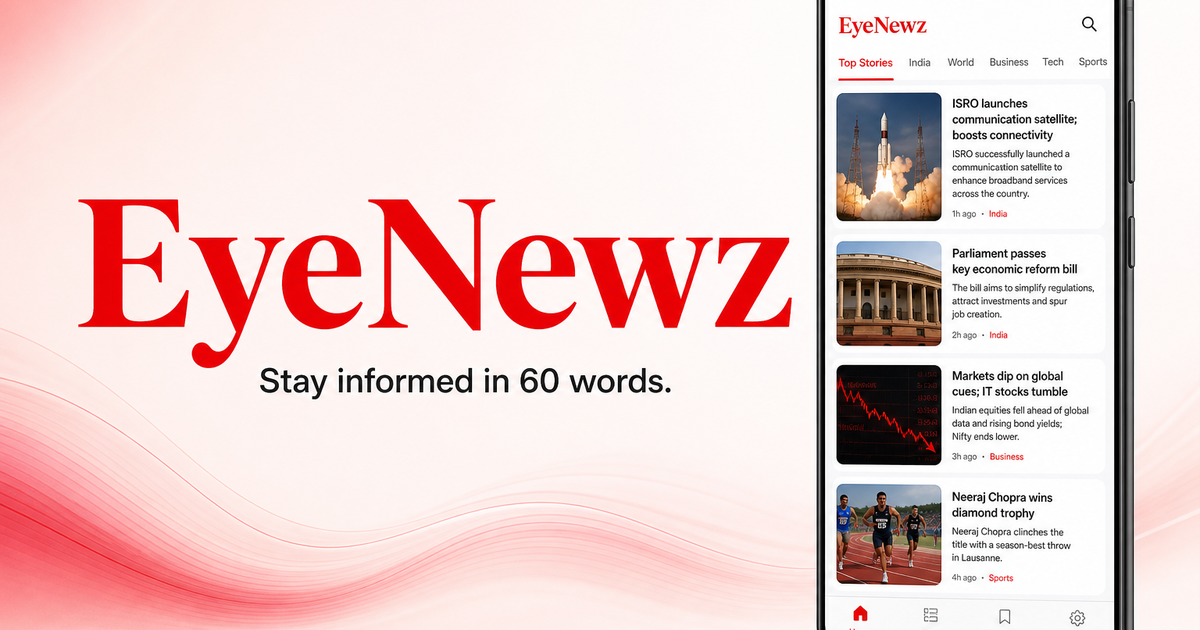
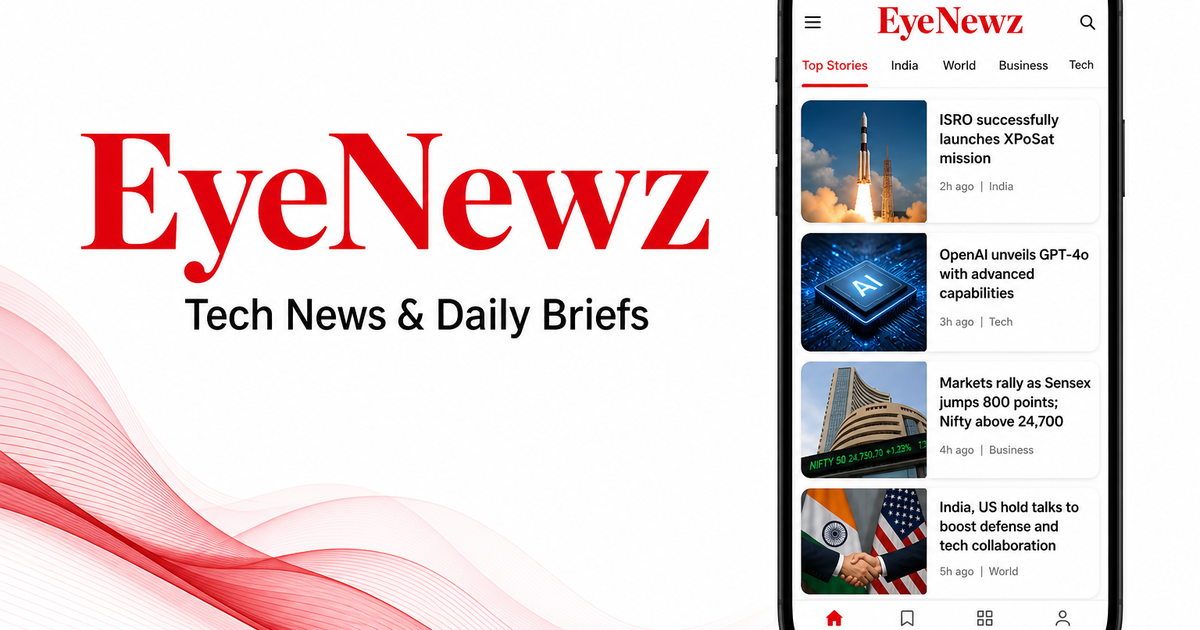
Update brand tagline to Tech News & Daily Briefs on OG image.
Replace the old 60-words marketing line in the social image and How it works copy so search/social crawls match the live title.

diff --git a/legal/how-it-works.html b/legal/how-it-works.html
@@ -11,11 +11,11 @@
   <meta property="og:description" content="EyeNewz — Tech News & Daily Briefs. Open the feed, skim the brief, tap the source." />
   <meta property="og:type" content="website" />
   <meta property="og:url" content="https://eyenewz.com/how-it-works" />
-  <meta property="og:image" content="https://eyenewz.com/assets/og-image.png" />
+  <meta property="og:image" content="https://eyenewz.com/assets/og-image.png?v=20260802" />
   <meta name="twitter:card" content="summary_large_image" />
   <meta name="twitter:title" content="EyeNewz — How it works" />
   <meta name="twitter:description" content="EyeNewz — Tech News & Daily Briefs. Open the feed, skim the brief, tap the source." />
-  <meta name="twitter:image" content="https://eyenewz.com/assets/og-image.png" />
+  <meta name="twitter:image" content="https://eyenewz.com/assets/og-image.png?v=20260802" />
   <link rel="preconnect" href="https://fonts.googleapis.com" />
   <link rel="preconnect" href="https://fonts.gstatic.com" crossorigin />
   <link href="https://fonts.googleapis.com/css2?family=DM+Sans:ital,opsz,wght@0,9..40,400;0,9..40,500;0,9..40,600;0,9..40,700;1,9..40,400&family=Libre+Baskerville:wght@400;700&display=swap" rel="stylesheet" />
@@ -53,8 +53,8 @@
     </section>
 
     <section class="legal-section">
-      <h2>02 — Skim in 60 words</h2>
-      <p>Each story is a focused summary—about sixty words—so you get the point fast without scrolling through fluff.</p>
+      <h2>02 — Skim the daily brief</h2>
+      <p>Each story is a focused daily brief—so you get the point fast without scrolling through fluff.</p>
     </section>
 
     <section class="legal-section">

diff --git a/legal/contact.html b/legal/contact.html
@@ -11,11 +11,11 @@
   <meta property="og:description" content="Contact EyeNewz for support, account deletion, grievances, and general enquiries." />
   <meta property="og:type" content="website" />
   <meta property="og:url" content="https://eyenewz.com/contact-us" />
-  <meta property="og:image" content="https://eyenewz.com/assets/og-image.png" />
+  <meta property="og:image" content="https://eyenewz.com/assets/og-image.png?v=20260802" />
   <meta name="twitter:card" content="summary_large_image" />
   <meta name="twitter:title" content="EyeNewz — Contact Us" />
   <meta name="twitter:description" content="Contact EyeNewz for support, account deletion, grievances, and general enquiries." />
-  <meta name="twitter:image" content="https://eyenewz.com/assets/og-image.png" />
+  <meta name="twitter:image" content="https://eyenewz.com/assets/og-image.png?v=20260802" />
   <link rel="preconnect" href="https://fonts.googleapis.com" />
   <link rel="preconnect" href="https://fonts.gstatic.com" crossorigin />
   <link href="https://fonts.googleapis.com/css2?family=DM+Sans:ital,opsz,wght@0,9..40,400;0,9..40,500;0,9..40,600;0,9..40,700;1,9..40,400&family=Libre+Baskerville:wght@400;700&display=swap" rel="stylesheet" />

diff --git a/legal/publishers.html b/legal/publishers.html
@@ -13,11 +13,11 @@
   <meta property="og:description" content="Summaries that drive readers to your original stories. Partner with EyeNewz." />
   <meta property="og:type" content="website" />
   <meta property="og:url" content="https://eyenewz.com/publishers" />
-  <meta property="og:image" content="https://eyenewz.com/assets/og-image.png" />
+  <meta property="og:image" content="https://eyenewz.com/assets/og-image.png?v=20260802" />
   <meta name="twitter:card" content="summary_large_image" />
   <meta name="twitter:title" content="EyeNewz — Publishers" />
   <meta name="twitter:description" content="Summaries that drive readers to your original stories. Partner with EyeNewz." />
-  <meta name="twitter:image" content="https://eyenewz.com/assets/og-image.png" />
+  <meta name="twitter:image" content="https://eyenewz.com/assets/og-image.png?v=20260802" />
   <link rel="preconnect" href="https://fonts.googleapis.com" />
   <link rel="preconnect" href="https://fonts.gstatic.com" crossorigin />
   <link href="https://fonts.googleapis.com/css2?family=DM+Sans:ital,opsz,wght@0,9..40,400;0,9..40,500;0,9..40,600;0,9..40,700;1,9..40,400&family=Libre+Baskerville:wght@400;700&display=swap" rel="stylesheet" />

diff --git a/legal/advertisers.html b/legal/advertisers.html
@@ -13,11 +13,11 @@
   <meta property="og:description" content="Brand-safe short-news inventory for mobile readers. Partner with EyeNewz." />
   <meta property="og:type" content="website" />
   <meta property="og:url" content="https://eyenewz.com/advertisers" />
-  <meta property="og:image" content="https://eyenewz.com/assets/og-image.png" />
+  <meta property="og:image" content="https://eyenewz.com/assets/og-image.png?v=20260802" />
   <meta name="twitter:card" content="summary_large_image" />
   <meta name="twitter:title" content="EyeNewz — Advertisers" />
   <meta name="twitter:description" content="Brand-safe short-news inventory for mobile readers. Partner with EyeNewz." />
-  <meta name="twitter:image" content="https://eyenewz.com/assets/og-image.png" />
+  <meta name="twitter:image" content="https://eyenewz.com/assets/og-image.png?v=20260802" />
   <link rel="preconnect" href="https://fonts.googleapis.com" />
   <link rel="preconnect" href="https://fonts.gstatic.com" crossorigin />
   <link href="https://fonts.googleapis.com/css2?family=DM+Sans:ital,opsz,wght@0,9..40,400;0,9..40,500;0,9..40,600;0,9..40,700;1,9..40,400&family=Libre+Baskerville:wght@400;700&display=swap" rel="stylesheet" />

diff --git a/legal/company.html b/legal/company.html
@@ -13,11 +13,11 @@
   <meta property="og:description" content="Tech News & Daily Briefs. Building the short-news product for global readers." />
   <meta property="og:type" content="website" />
   <meta property="og:url" content="https://eyenewz.com/company" />
-  <meta property="og:image" content="https://eyenewz.com/assets/og-image.png" />
+  <meta property="og:image" content="https://eyenewz.com/assets/og-image.png?v=20260802" />
   <meta name="twitter:card" content="summary_large_image" />
   <meta name="twitter:title" content="EyeNewz — Company" />
   <meta name="twitter:description" content="Tech News & Daily Briefs. Building the short-news product for global readers." />
-  <meta name="twitter:image" content="https://eyenewz.com/assets/og-image.png" />
+  <meta name="twitter:image" content="https://eyenewz.com/assets/og-image.png?v=20260802" />
   <link rel="preconnect" href="https://fonts.googleapis.com" />
   <link rel="preconnect" href="https://fonts.gstatic.com" crossorigin />
   <link href="https://fonts.googleapis.com/css2?family=DM+Sans:ital,opsz,wght@0,9..40,400;0,9..40,500;0,9..40,600;0,9..40,700;1,9..40,400&family=Libre+Baskerville:wght@400;700&display=swap" rel="stylesheet" />

diff --git a/index.html b/index.html
@@ -14,13 +14,13 @@
   <meta property="og:type" content="website" />
   <meta property="og:url" content="https://eyenewz.com/" />
   <meta property="og:site_name" content="EyeNewz" />
-  <meta property="og:image" content="https://eyenewz.com/assets/og-image.png" />
+  <meta property="og:image" content="https://eyenewz.com/assets/og-image.png?v=20260802" />
   <meta property="og:image:width" content="1200" />
   <meta property="og:image:height" content="630" />
   <meta name="twitter:card" content="summary_large_image" />
   <meta name="twitter:title" content="EyeNewz — Tech News & Daily Briefs" />
   <meta name="twitter:description" content="Tech News & Daily Briefs. Free on Google Play for Android." />
-  <meta name="twitter:image" content="https://eyenewz.com/assets/og-image.png" />
+  <meta name="twitter:image" content="https://eyenewz.com/assets/og-image.png?v=20260802" />
   <link rel="preconnect" href="https://fonts.googleapis.com" />
   <link rel="preconnect" href="https://fonts.gstatic.com" crossorigin />
   <link href="https://fonts.googleapis.com/css2?family=DM+Sans:ital,opsz,wght@0,9..40,400;0,9..40,500;0,9..40,600;0,9..40,700;1,9..40,400&display=swap" rel="stylesheet" />

diff --git a/legal/press.html b/legal/press.html
@@ -13,11 +13,11 @@
   <meta property="og:description" content="Brand assets and boilerplate for EyeNewz — Tech News & Daily Briefs." />
   <meta property="og:type" content="website" />
   <meta property="og:url" content="https://eyenewz.com/press" />
-  <meta property="og:image" content="https://eyenewz.com/assets/og-image.png" />
+  <meta property="og:image" content="https://eyenewz.com/assets/og-image.png?v=20260802" />
   <meta name="twitter:card" content="summary_large_image" />
   <meta name="twitter:title" content="EyeNewz — Press" />
   <meta name="twitter:description" content="Brand assets and boilerplate for EyeNewz — Tech News & Daily Briefs." />
-  <meta name="twitter:image" content="https://eyenewz.com/assets/og-image.png" />
+  <meta name="twitter:image" content="https://eyenewz.com/assets/og-image.png?v=20260802" />
   <link rel="preconnect" href="https://fonts.googleapis.com" />
   <link rel="preconnect" href="https://fonts.gstatic.com" crossorigin />
   <link href="https://fonts.googleapis.com/css2?family=DM+Sans:ital,opsz,wght@0,9..40,400;0,9..40,500;0,9..40,600;0,9..40,700;1,9..40,400&family=Libre+Baskerville:wght@400;700&display=swap" rel="stylesheet" />

diff --git a/legal/terms.html b/legal/terms.html
@@ -11,11 +11,11 @@
   <meta property="og:description" content="Terms and Conditions of Use for the EyeNewz mobile application." />
   <meta property="og:type" content="website" />
   <meta property="og:url" content="https://eyenewz.com/terms" />
-  <meta property="og:image" content="https://eyenewz.com/assets/og-image.png" />
+  <meta property="og:image" content="https://eyenewz.com/assets/og-image.png?v=20260802" />
   <meta name="twitter:card" content="summary_large_image" />
   <meta name="twitter:title" content="EyeNewz — Terms & Conditions" />
   <meta name="twitter:description" content="Terms and Conditions of Use for the EyeNewz mobile application." />
-  <meta name="twitter:image" content="https://eyenewz.com/assets/og-image.png" />
+  <meta name="twitter:image" content="https://eyenewz.com/assets/og-image.png?v=20260802" />
   <link rel="preconnect" href="https://fonts.googleapis.com" />
   <link rel="preconnect" href="https://fonts.gstatic.com" crossorigin />
   <link href="https://fonts.googleapis.com/css2?family=DM+Sans:ital,opsz,wght@0,9..40,400;0,9..40,500;0,9..40,600;0,9..40,700;1,9..40,400&family=Libre+Baskerville:wght@400;700&display=swap" rel="stylesheet" />

diff --git a/legal/download.html b/legal/download.html
@@ -11,11 +11,11 @@
   <meta property="og:description" content="Get EyeNewz — Tech News & Daily Briefs. Free on Google Play." />
   <meta property="og:type" content="website" />
   <meta property="og:url" content="https://eyenewz.com/download" />
-  <meta property="og:image" content="https://eyenewz.com/assets/og-image.png" />
+  <meta property="og:image" content="https://eyenewz.com/assets/og-image.png?v=20260802" />
   <meta name="twitter:card" content="summary_large_image" />
   <meta name="twitter:title" content="EyeNewz — Download the app" />
   <meta name="twitter:description" content="Get EyeNewz — Tech News & Daily Briefs. Free on Google Play." />
-  <meta name="twitter:image" content="https://eyenewz.com/assets/og-image.png" />
+  <meta name="twitter:image" content="https://eyenewz.com/assets/og-image.png?v=20260802" />
   <link rel="preconnect" href="https://fonts.googleapis.com" />
   <link rel="preconnect" href="https://fonts.gstatic.com" crossorigin />
   <link href="https://fonts.googleapis.com/css2?family=DM+Sans:ital,opsz,wght@0,9..40,400;0,9..40,500;0,9..40,600;0,9..40,700;1,9..40,400&family=Libre+Baskerville:wght@400;700&display=swap" rel="stylesheet" />

diff --git a/legal/privacy.html b/legal/privacy.html
@@ -11,11 +11,11 @@
   <meta property="og:description" content="How EyeNewz collects, uses, and protects your information." />
   <meta property="og:type" content="website" />
   <meta property="og:url" content="https://eyenewz.com/privacy" />
-  <meta property="og:image" content="https://eyenewz.com/assets/og-image.png" />
+  <meta property="og:image" content="https://eyenewz.com/assets/og-image.png?v=20260802" />
   <meta name="twitter:card" content="summary_large_image" />
   <meta name="twitter:title" content="EyeNewz — Privacy Policy" />
   <meta name="twitter:description" content="How EyeNewz collects, uses, and protects your information." />
-  <meta name="twitter:image" content="https://eyenewz.com/assets/og-image.png" />
+  <meta name="twitter:image" content="https://eyenewz.com/assets/og-image.png?v=20260802" />
   <link rel="preconnect" href="https://fonts.googleapis.com" />
   <link rel="preconnect" href="https://fonts.gstatic.com" crossorigin />
   <link href="https://fonts.googleapis.com/css2?family=DM+Sans:ital,opsz,wght@0,9..40,400;0,9..40,500;0,9..40,600;0,9..40,700;1,9..40,400&family=Libre+Baskerville:wght@400;700&display=swap" rel="stylesheet" />

diff --git a/legal/about.html b/legal/about.html
@@ -11,11 +11,11 @@
   <meta property="og:description" content="EyeNewz — Tech News & Daily Briefs." />
   <meta property="og:type" content="website" />
   <meta property="og:url" content="https://eyenewz.com/about" />
-  <meta property="og:image" content="https://eyenewz.com/assets/og-image.png" />
+  <meta property="og:image" content="https://eyenewz.com/assets/og-image.png?v=20260802" />
   <meta name="twitter:card" content="summary_large_image" />
   <meta name="twitter:title" content="EyeNewz — Who we are" />
   <meta name="twitter:description" content="EyeNewz — Tech News & Daily Briefs." />
-  <meta name="twitter:image" content="https://eyenewz.com/assets/og-image.png" />
+  <meta name="twitter:image" content="https://eyenewz.com/assets/og-image.png?v=20260802" />
   <link rel="preconnect" href="https://fonts.googleapis.com" />
   <link rel="preconnect" href="https://fonts.gstatic.com" crossorigin />
   <link href="https://fonts.googleapis.com/css2?family=DM+Sans:ital,opsz,wght@0,9..40,400;0,9..40,500;0,9..40,600;0,9..40,700;1,9..40,400&family=Libre+Baskerville:wght@400;700&display=swap" rel="stylesheet" />
